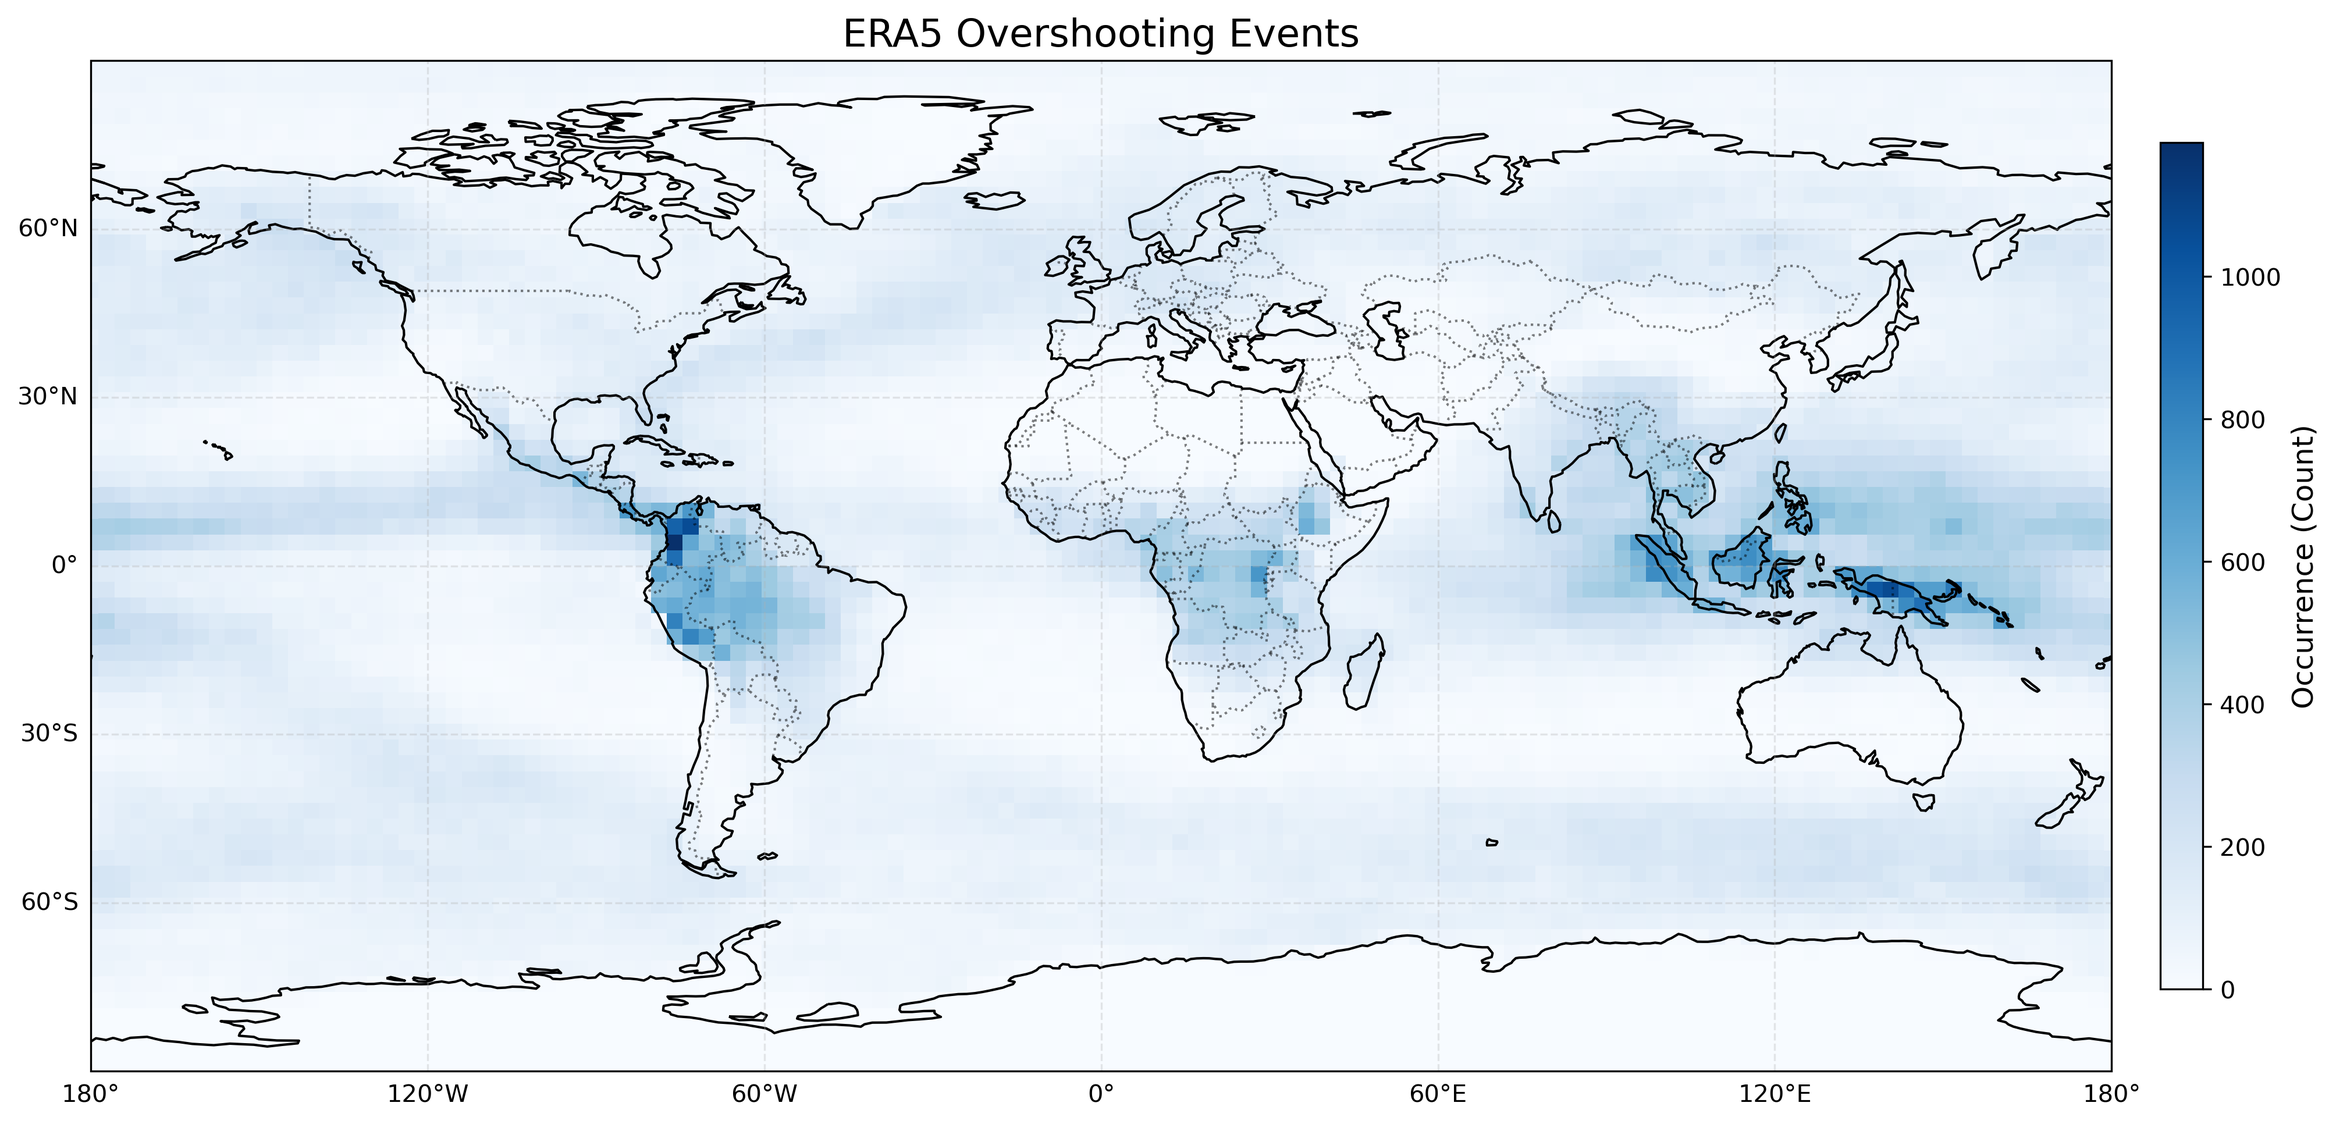
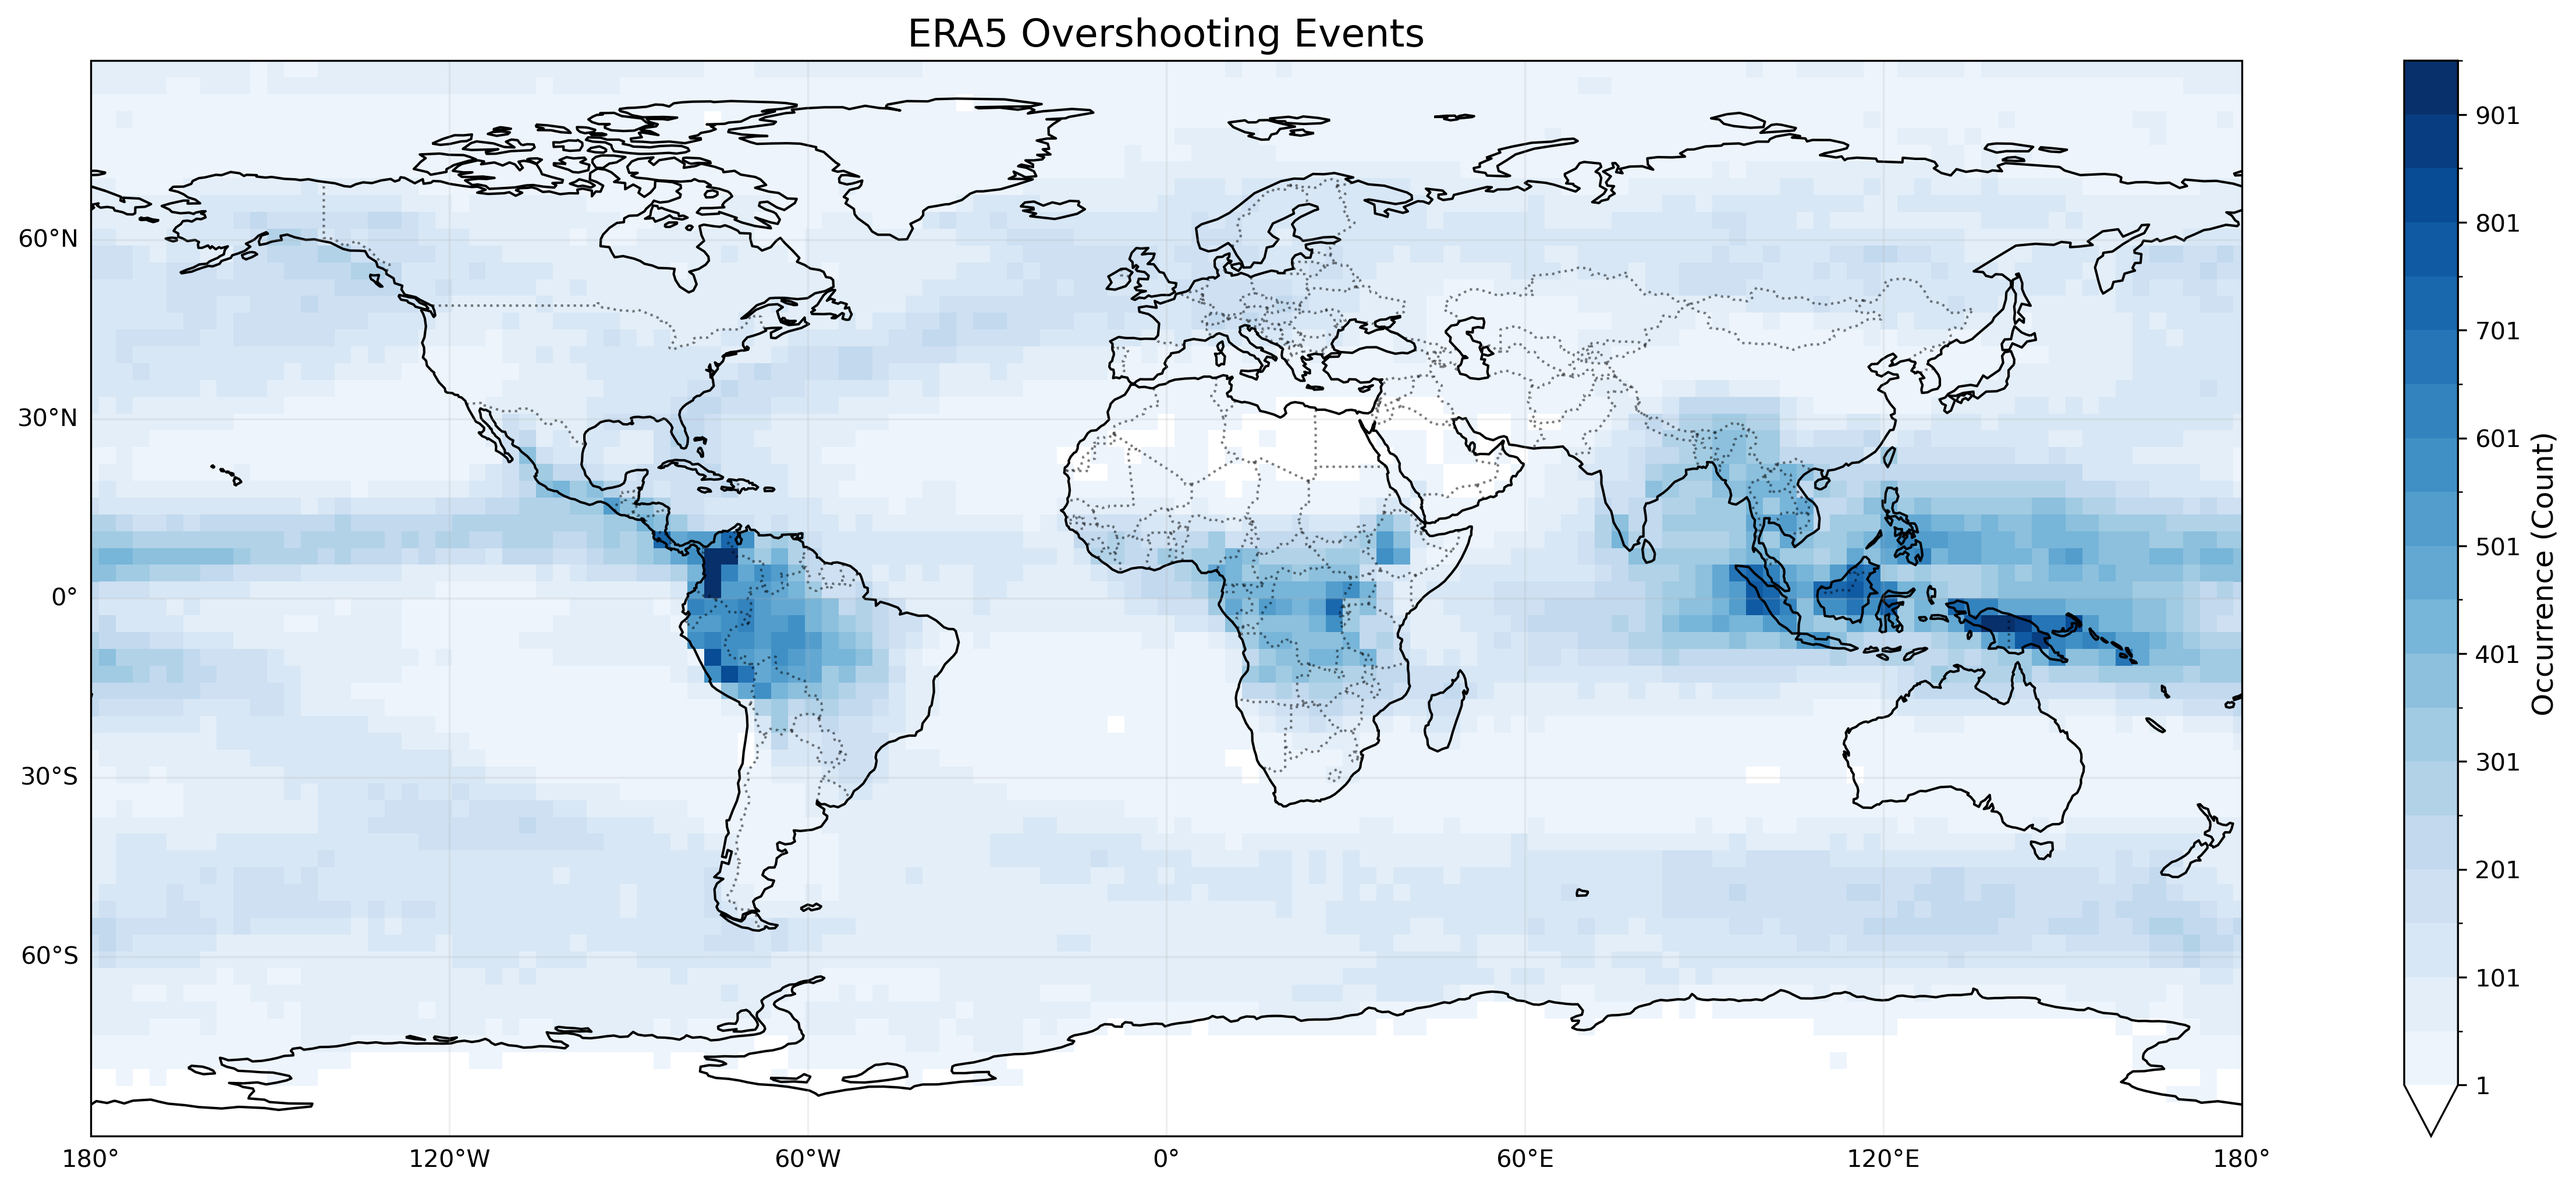
Combined plots

diff --git a/Combining_criteria.py b/Combining_criteria.py
@@ -2,86 +2,131 @@ import matplotlib.pyplot as plt
 import numpy as np
 from PIL import Image
 
-thresholds = np.array([1e-10,1e-09,1e-08,1e-07,1e-06,1e-05,1e-04,1e-03])
-for threshold in thresholds:
-# # 1. Load your existing PNG images
-    img3 = Image.open(f'/home/karengarcia/criteria_testing/Figures/Ice_mass_thresholds/CanAM_ice_above_trop_{threshold}kg_test.png')
-    img2 = Image.open(f'/home/karengarcia/criteria_testing/Figures/Ice_mass_thresholds/ERA5_ice_above_trop_{threshold}kg_test.png')
-    img1 = Image.open(f'/home/karengarcia/criteria_testing/Figures/Ice_mass_thresholds/MERRA_ice_above_trop_{threshold}kg_test.png')
+# thresholds = np.array([1e-10,1e-09,1e-08,1e-07,1e-06,1e-05,1e-04,1e-03])
+# for threshold in thresholds:
+# # # 1. Load your existing PNG images
+#     img3 = Image.open(f'/home/karengarcia/criteria_testing/Figures/Ice_mass_thresholds/CanAM_ice_above_trop_{threshold}kg_test.png')
+#     img2 = Image.open(f'/home/karengarcia/criteria_testing/Figures/Ice_mass_thresholds/ERA5_ice_above_trop_{threshold}kg_test.png')
+#     img1 = Image.open(f'/home/karengarcia/criteria_testing/Figures/Ice_mass_thresholds/MERRA_ice_above_trop_{threshold}kg_test.png')
 
-    # # 2. Create a subplot grid (1 row, 3 columns)
-    fig, axes = plt.subplots(3,1, figsize=(15, 5))
+#     # # 2. Create a subplot grid (1 row, 3 columns)
+#     fig, axes = plt.subplots(3,1, figsize=(15, 5))
 
-    # 3. Display each image in its respective subplot slot
-    axes[0].imshow(img1)
-    axes[0].axis('off')  # Hide the pixel grid lines/axes
+#     # 3. Display each image in its respective subplot slot
+#     axes[0].imshow(img1)
+#     axes[0].axis('off')  # Hide the pixel grid lines/axes
 
-    axes[1].imshow(img2)
-    axes[1].axis('off')
+#     axes[1].imshow(img2)
+#     axes[1].axis('off')
 
-    axes[2].imshow(img3)
-    axes[2].axis('off')
+#     axes[2].imshow(img3)
+#     axes[2].axis('off')
 
-    # 4. Clean up spacing and save the combined image
-    plt.tight_layout()
-    final_plot_path = f'/home/karengarcia/MSc_project/Figures/combined_threshold_cloud_mass_plots_{threshold}.png'
-    plt.savefig(final_plot_path, dpi=300, bbox_inches='tight')
-    print(f"Figure saved to: {final_plot_path}")
-
-
-    img4 = Image.open(f'/home/karengarcia/criteria_testing/Figures/Mass_flux_thresholds/MERRA_mf_above_trop_{threshold}kgm2s_test.png')
-    img5 = Image.open(f'/home/karengarcia/criteria_testing/Figures/Mass_flux_thresholds/CanAM_DMCU_above_trop_{threshold}kgm2s_test.png')
-
-    fig, axes = plt.subplots(2,1, figsize=(15, 5))
-
-    # 3. Display each image in its respective subplot slot
-    axes[0].imshow(img4)
-    axes[0].axis('off')  # Hide the pixel grid lines/axes
-
-    axes[1].imshow(img5)
-    axes[1].axis('off')
-
-    # 4. Clean up spacing and save the combined image
-    plt.tight_layout()
-    final_plot_path = f'/home/karengarcia/MSc_project/Figures/combined_threshold_mass_flux_plots_{threshold}.png'
-    plt.savefig(final_plot_path, dpi=300, bbox_inches='tight')
-    print(f"Figure saved to: {final_plot_path}")
+#     # 4. Clean up spacing and save the combined image
+#     plt.tight_layout()
+#     final_plot_path = f'/home/karengarcia/MSc_project/Figures/combined_threshold_cloud_mass_plots_{threshold}.png'
+#     plt.savefig(final_plot_path, dpi=300, bbox_inches='tight')
+#     print(f"Figure saved to: {final_plot_path}")
 
 
-#Histograms
-img6 = Image.open('/home/karengarcia/MSc_project/Figures/Criteria_testing/Histograms/MERRA_ice_histogram.png')
-img7 = Image.open('/home/karengarcia/MSc_project/Figures/Criteria_testing/Histograms/ERA5_ice_histogram.png')
-img8 = Image.open('/home/karengarcia/MSc_project/Figures/Criteria_testing/Histograms/total_water_histogram.png')
+#     img4 = Image.open(f'/home/karengarcia/criteria_testing/Figures/Mass_flux_thresholds/MERRA_mf_above_trop_{threshold}kgm2s_test.png')
+#     img5 = Image.open(f'/home/karengarcia/criteria_testing/Figures/Mass_flux_thresholds/CanAM_DMCU_above_trop_{threshold}kgm2s_test.png')
 
-fig, axes = plt.subplots(3, 1, figsize=(15, 5), gridspec_kw={'height_ratios': [1, 1, 0.9]})
-axes[0].imshow(img6)
+#     fig, axes = plt.subplots(2,1, figsize=(15, 5))
+
+#     # 3. Display each image in its respective subplot slot
+#     axes[0].imshow(img4)
+#     axes[0].axis('off')  # Hide the pixel grid lines/axes
+
+#     axes[1].imshow(img5)
+#     axes[1].axis('off')
+
+#     # 4. Clean up spacing and save the combined image
+#     plt.tight_layout()
+#     final_plot_path = f'/home/karengarcia/MSc_project/Figures/combined_threshold_mass_flux_plots_{threshold}.png'
+#     plt.savefig(final_plot_path, dpi=300, bbox_inches='tight')
+#     print(f"Figure saved to: {final_plot_path}")
+
+
+# #Histograms
+# img6 = Image.open('/home/karengarcia/MSc_project/Figures/Criteria_testing/Histograms/MERRA_ice_histogram.png')
+# img7 = Image.open('/home/karengarcia/MSc_project/Figures/Criteria_testing/Histograms/ERA5_ice_histogram.png')
+# img8 = Image.open('/home/karengarcia/MSc_project/Figures/Criteria_testing/Histograms/total_water_histogram.png')
+
+# fig, axes = plt.subplots(3, 1, figsize=(15, 5), gridspec_kw={'height_ratios': [1, 1, 0.9]})
+# axes[0].imshow(img6)
+# axes[0].axis('off') 
+
+# axes[1].imshow(img7)
+# axes[1].axis('off')
+
+# axes[2].imshow(img8)
+# axes[2].axis('off')
+
+# plt.tight_layout()
+# final_plot_path = '/home/karengarcia/MSc_project/Figures/combined_threshold_cloud_mass_histograms.png'
+# plt.savefig(final_plot_path, dpi=300, bbox_inches='tight')
+# print(f"Figure saved to: {final_plot_path}")
+
+
+# img9  = Image.open('/home/karengarcia/MSc_project/Figures/Criteria_testing/Histograms/MERRA_mf_histogram.png')
+# img10 = Image.open('/home/karengarcia/MSc_project/Figures/Criteria_testing/Histograms/DMCU_histogram.png')
+
+# fig, axes = plt.subplots(2, 1, figsize=(10, 5), gridspec_kw={'height_ratios': [1, 0.9]})
+
+# axes[0].imshow(img9)
+# axes[0].axis('off') 
+
+# axes[1].imshow(img10)
+# axes[1].axis('off')
+
+# plt.tight_layout()
+# final_plot_path = '/home/karengarcia/MSc_project/Figures/combined_threshold_mf_histograms.png'
+# plt.savefig(final_plot_path, dpi=300, bbox_inches='tight')
+# print(f"Figure saved to: {final_plot_path}")
+
+#### Overshooting plots ####
+
+img11  = Image.open('/home/karengarcia/MSc_project/Figures/OC_after_testing/CanAM5_Overshooting_map_2014_npc.png')
+img12 = Image.open('/home/karengarcia/MSc_project/Figures/OC_after_testing/ERA5_coarse_overshooting.png')
+img13 = Image.open("/home/karengarcia/MSc_project/Figures/OC_after_testing/MERRA_Overshooting_2014.png")
+fig, axes = plt.subplots(3, 1, figsize=(15, 5), gridspec_kw={'height_ratios': [1, 1,1]})
+
+axes[0].imshow(img13)
 axes[0].axis('off') 
 
-axes[1].imshow(img7)
+axes[1].imshow(img12)
 axes[1].axis('off')
 
-axes[2].imshow(img8)
-axes[2].axis('off')
+axes[2].imshow(img11)
+axes[2].axis('off') 
 
 plt.tight_layout()
-final_plot_path = '/home/karengarcia/MSc_project/Figures/combined_threshold_cloud_mass_histograms.png'
+final_plot_path = '/home/karengarcia/MSc_project/Figures/OC_after_testing/combined_Overshooting_maps.png'
 plt.savefig(final_plot_path, dpi=300, bbox_inches='tight')
 print(f"Figure saved to: {final_plot_path}")
 
 
-img9  = Image.open('/home/karengarcia/MSc_project/Figures/Criteria_testing/Histograms/MERRA_mf_histogram.png')
-img10 = Image.open('/home/karengarcia/MSc_project/Figures/Criteria_testing/Histograms/DMCU_histogram.png')
+img11  = Image.open('/home/karengarcia/MSc_project/Figures/Criteria_testing/Histograms/MERRA_precip_histogram.png')
+img12 = Image.open('/home/karengarcia/MSc_project/Figures/Criteria_testing/Histograms/ERA5_precip_histogram.png')
+img13 = Image.open("/home/karengarcia/MSc_project/Figures/Criteria_testing/Histograms/Precip_histogram.png")
+fig, axes = plt.subplots(3, 1, figsize=(15, 5), gridspec_kw={'height_ratios': [1, 1,0.9]})
 
-fig, axes = plt.subplots(2, 1, figsize=(10, 5), gridspec_kw={'height_ratios': [1, 0.9]})
-
-axes[0].imshow(img9)
+axes[0].imshow(img11)
 axes[0].axis('off') 
 
-axes[1].imshow(img10)
+axes[1].imshow(img12)
 axes[1].axis('off')
 
+axes[2].imshow(img13)
+axes[2].axis('off') 
+
 plt.tight_layout()
-final_plot_path = '/home/karengarcia/MSc_project/Figures/combined_threshold_mf_histograms.png'
+final_plot_path = '/home/karengarcia/MSc_project/Figures/Criteria_testing/Histograms/combined_threshold_precip_histograms.png'
 plt.savefig(final_plot_path, dpi=300, bbox_inches='tight')
 print(f"Figure saved to: {final_plot_path}")
+
+
+
+
 

diff --git a/Scripts/Precip_histograms.py b/Scripts/Precip_histograms.py
@@ -12,7 +12,7 @@ data_era = ds['cp'].values*4000 #m/6hours to mm/day
 data_era = data_era[np.isfinite(data_era)]
 data_era = data_era[data_era > 0]
 
-bins_era = np.logspace(np.log10(data_era.min()), np.log10(data_era.max()), 100)
+bins_era = np.logspace(np.log10(data_era.min()), np.log10(data_era.max()), 50)
 p10_era = np.percentile(data_era, 10)
 
 plt.figure(figsize=(16,6))
@@ -24,14 +24,15 @@ plt.legend()
 plt.xscale("log")
 plt.yscale("log")
 # plt.ylim([0, 3e6])
-# plt.xlim([1e-13, 2e-3])
+plt.xlim([1e-8, 1e2])
 plt.xlabel("Convective Precipitation (mm/day)")
 plt.ylabel("Occurrences per year (Count)")
 plt.title("ERA5 Histogram of Convective Precipitation")
 
-plt.savefig("/home/karengarcia/MSc_project/Figures/ERA5_precip_histogram.png",
+plt.savefig("/home/karengarcia/MSc_project/Figures/Criteria_testing/Histograms/ERA5_precip_histogram.png",
             dpi=300, bbox_inches='tight')
 plt.close()
+print("/home/karengarcia/MSc_project/Figures/Criteria_testing/Histograms/ERA5_precip_histogram.png")
 
 
 # #####################################
@@ -43,7 +44,7 @@ data_merra = ds2["__xarray_dataarray_variable__"].values*86400
 data_merra = data_merra[np.isfinite(data_merra)]
 data_merra = data_merra[data_merra > 0]
 
-bins_merra = np.logspace(np.log10(data_merra.min()), np.log10(data_merra.max()), 100)
+bins_merra = np.logspace(np.log10(data_merra.min()), np.log10(data_merra.max()), 50)
 p10_merra = np.percentile(data_merra, 10)
 
 plt.figure(figsize=(16,6))
@@ -60,6 +61,8 @@ plt.xlabel("Convective Precipitation (mm/day)")
 plt.ylabel("Occurrences per year (Count)")
 plt.title("MERRA-2 Histogram of Convective Precipitation")
 
-plt.savefig("/home/karengarcia/MSc_project/Figures/MERRA_precip_histogram.png",
+plt.savefig("/home/karengarcia/MSc_project/Figures/Criteria_testing/Histograms/MERRA_precip_histogram.png",
             dpi=300, bbox_inches='tight')
+plt.close()
+print("/home/karengarcia/MSc_project/Figures/Criteria_testing/Histograms/MERRA_precip_histogram.png")
 

diff --git a/Scripts/ERA5_scripts/Plotting_overshooting.py b/Scripts/ERA5_scripts/Plotting_overshooting.py
@@ -11,7 +11,7 @@ ds_year = xr.open_mfdataset(file)
 
 full_year = ds_year["overshoot"].sum(dim="valid_time")
 
-fig, ax = plt.subplots(1, 1,figsize=(18, 9),
+fig, ax = plt.subplots(1, 1,figsize=(24, 8),
                        subplot_kw={'projection': ccrs.PlateCarree()})
 
 ax.coastlines(resolution='110m', color='black', linewidth=1)
@@ -19,27 +19,26 @@ ax.add_feature(cfeature.BORDERS, linestyle=':', alpha=0.5)
 
 cmap = plt.get_cmap("Blues")
 
-# levels = np.linspace(0, 100, 21)   # 10 intervals
-# norm = mcolors.BoundaryNorm(levels, ncolors=cmap.N)
+levels = np.arange(1, 1000, 50,dtype = int) 
+cmap = plt.get_cmap("Blues").copy()
+cmap.set_under('white', alpha=0)
+norm = mcolors.BoundaryNorm(levels, ncolors=cmap.N, extend='min')
 
 cf = ax.pcolormesh(full_year.lon,full_year.lat,full_year.values,
     # norm=norm,
     transform=ccrs.PlateCarree(),
-    cmap=cmap,
-    shading="auto"
-)
+                   cmap=cmap,
+                   norm=norm)
 
-gl = ax.gridlines(draw_labels=True, alpha=0.3, linestyle='--')
-gl.top_labels = False
-gl.right_labels = False
+gl = ax.gridlines(draw_labels=True, alpha=0.2)
+gl.top_labels = False; gl.right_labels = False
 
-cbar = fig.colorbar(cf, ax=ax, orientation='vertical',
-                    shrink=0.7, pad=0.02)
+cbar = fig.colorbar(cf, ax=ax, orientation='vertical')
 
 cbar.set_label("Occurrence (Count)", fontsize=12)
 
 plt.title(f"ERA5 Overshooting Events",fontsize=16)
 
-final_plot_path = f"/home/karengarcia/MSc_project/Figures/ERA5_coarse_overshooting.png"
+final_plot_path = f"/home/karengarcia/MSc_project/Figures/OC_after_testing/ERA5_coarse_overshooting.png"
 plt.savefig(final_plot_path, dpi=300, bbox_inches='tight')
 print(f"Annual mean map saved to: {final_plot_path}")

diff --git a/Scripts/MERRA2_scripts/Plotting_overshooting.py b/Scripts/MERRA2_scripts/Plotting_overshooting.py
@@ -14,7 +14,8 @@ monthly_cumulative = ds_month['overshoot'].sum(dim="time").compute()
 lon = monthly_cumulative["lon"]
 lat = monthly_cumulative["lat"] 
 
-fig, ax = plt.subplots(1, 1, figsize=(24, 8), subplot_kw={'projection': ccrs.PlateCarree()})
+fig, ax = plt.subplots(1, 1, figsize=(24, 8), 
+                       subplot_kw={'projection': ccrs.PlateCarree()})
 ax.coastlines(color='black', linewidth=0.8)
 ax.add_feature(cfeature.BORDERS, linestyle=':', alpha=0.4)
 # ax.add_feature(cfeature.LAND)
